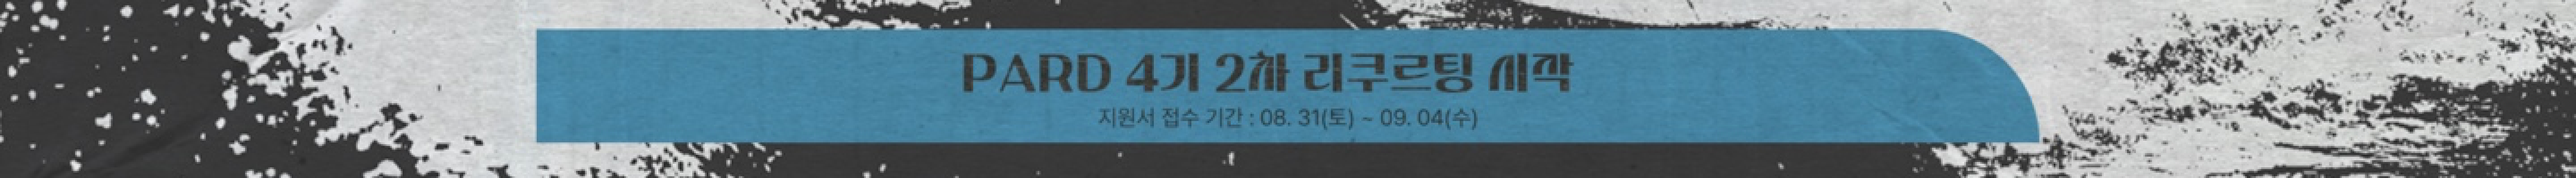
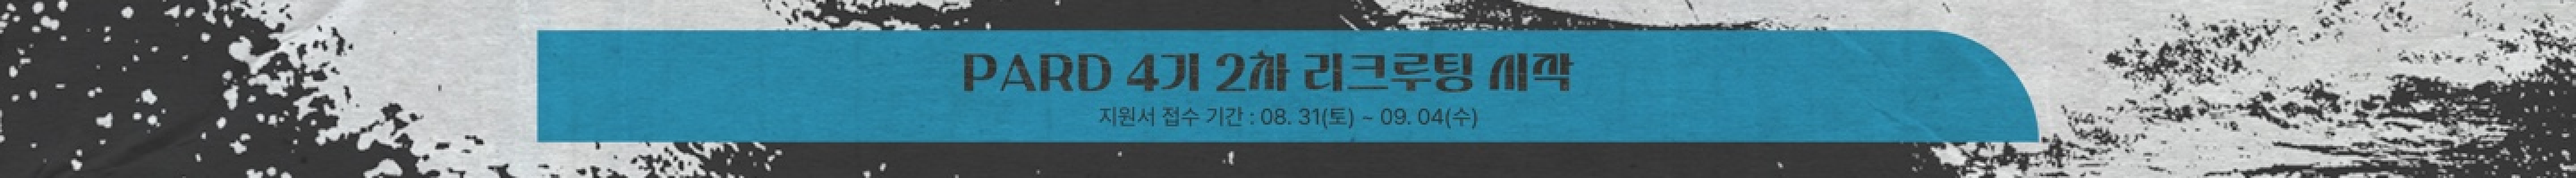
fix: 리크루팅으로 명칭 수정

diff --git a/src/components/Web/Web-RecruitingPage/RecruitingSecond.js b/src/components/Web/Web-RecruitingPage/RecruitingSecond.js
@@ -58,7 +58,7 @@ function RecruitingSecond() {
                 </Icon2B>
               </IconWrap>
               <Box2>서류 합격 발표</Box2>
-              <BoxText>9/5(목) 오전 중</BoxText>
+              <BoxText>9/5(목) 오전</BoxText>
             </Box>
             <Box style={{ border: "2px solid rgba(100, 197, 154, 0.7)" }}>
               <IconWrap>
@@ -92,7 +92,7 @@ function RecruitingSecond() {
                 </Icon4B>
               </IconWrap>
               <Box4>최종합격 발표</Box4>
-              <BoxText>9/6(금) 24시 전</BoxText>
+              <BoxText>9/7(토) 00시 전</BoxText>
             </Box>
           </Container>
           <Plus onClick={handleClick}>

diff --git a/src/components/Mobile/Mob-RecrutingPage/RecruitingSecond_Mob.js b/src/components/Mobile/Mob-RecrutingPage/RecruitingSecond_Mob.js
@@ -65,7 +65,7 @@ function RecruitingSecond() {
                 </Icon2B>
               </IconWrap>
               <Box2>서류 합격 발표</Box2>
-              <BoxText>9/5(목) 오전 중</BoxText>
+              <BoxText>9/5(목) 오전</BoxText>
             </Box>
             <Box
               style={{
@@ -109,7 +109,7 @@ function RecruitingSecond() {
                 </Icon4B>
               </IconWrap>
               <Box4>최종합격 발표</Box4>
-              <BoxText>9/6(금) 24시 전</BoxText>
+              <BoxText>9/7(토) 00시 전</BoxText>
             </Box>
           </Container>
 

diff --git a/src/components/NavBarMob_About.js b/src/components/NavBarMob_About.js
@@ -67,7 +67,7 @@ const NavBarMov_About = () => {
             </Link>
             <Hr />
             <Link to="/Recruiting" style={{ textDecoration: "none" }}>
-              <Subtitle2>리쿠르팅</Subtitle2>
+              <Subtitle2>리크루팅</Subtitle2>
             </Link>
             <Hr />
             <Link to="/news" style={{ textDecoration: "none" }}>

diff --git a/src/components/NavBarMov.js b/src/components/NavBarMov.js
@@ -46,7 +46,7 @@ const NavBarMov = () => {
             </Link>
             <Hr />
             <Link to="/Recruiting" style={{ textDecoration: "none" }}>
-              <Subtitle2>리쿠르팅</Subtitle2>
+              <Subtitle2>리크루팅</Subtitle2>
             </Link>
             <Hr />
             <Link to="/news" style={{ textDecoration: "none" }}>

diff --git a/src/components/NavBar.js b/src/components/NavBar.js
@@ -55,7 +55,7 @@ const NavBar = () => {
               <NavItem>
                 <Link to="/Recruiting" style={{ textDecoration: "none" }}>
                   <Subtitle1 active={pathname === "/Recruiting"}>
-                    리쿠르팅
+                    리크루팅
                   </Subtitle1>
                 </Link>
               </NavItem>

diff --git a/src/components/Navbar_Home.js b/src/components/Navbar_Home.js
@@ -51,7 +51,7 @@ const NavBar_Home = () => {
               </NavItem>
               <NavItem>
                 <Link to="/Recruiting" style={{ textDecoration: "none" }}>
-                  <Subtitle1>리쿠르팅</Subtitle1>
+                  <Subtitle1>리크루팅</Subtitle1>
                 </Link>
               </NavItem>
               <NavItem>

diff --git a/src/components/NavBarMob_Home.js b/src/components/NavBarMob_Home.js
@@ -45,7 +45,7 @@ const NavBarMob_Home = () => {
           </Link>
           <Hr />
           <Link to="/Recruiting" style={{ textDecoration: "none" }}>
-            <Subtitle2>리쿠르팅</Subtitle2>
+            <Subtitle2>리크루팅</Subtitle2>
           </Link>
           <Hr />
           <Link to="/news" style={{ textDecoration: "none" }}>

diff --git a/src/components/NavBar_About.js b/src/components/NavBar_About.js
@@ -75,7 +75,7 @@ const NavBar_About = () => {
                     active={pathname === "/Recruiting"}
                     isScrolled={scrollPosition >= animatedPosition}
                   >
-                    리쿠르팅
+                    리크루팅
                   </Subtitle1>
                 </Link>
               </NavItem>

diff --git a/src/components/Web/Web-RecruitingPage/RecruitingPart.js b/src/components/Web/Web-RecruitingPage/RecruitingPart.js
@@ -105,7 +105,7 @@ const buttons = [
     hoverColor: "#5262F5",
     vectorImage: ServiceVector,
     selectedImage: SelectedVector,
-    showButton: true,
+    showButton: false,
     buttonText: "사전과제",
     showButton2: false,
     buttonText2: "",

diff --git a/src/components/Mobile/Mob-RecrutingPage/RecruitingPart_Mob.js b/src/components/Mobile/Mob-RecrutingPage/RecruitingPart_Mob.js
@@ -81,7 +81,7 @@ const buttons = [
     hoverColor: "#5262F5",
     vectorImage: ServiceVector,
     selectedImage: SelectedVector,
-    showButton: true,
+    showButton: false,
     buttonText: "사전과제",
     showButton2: false,
     buttonText2: "",
